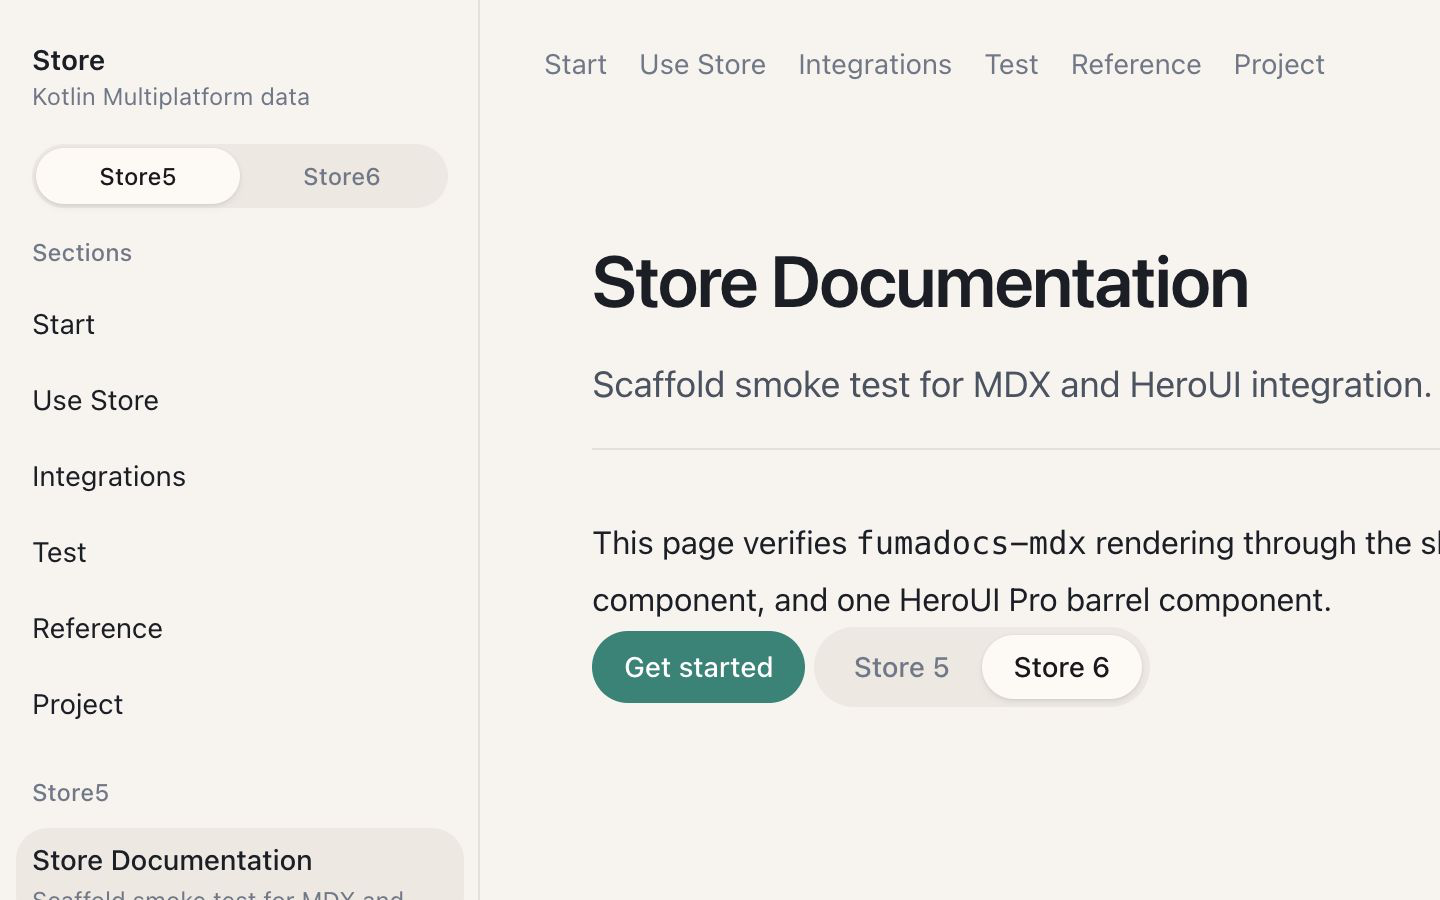
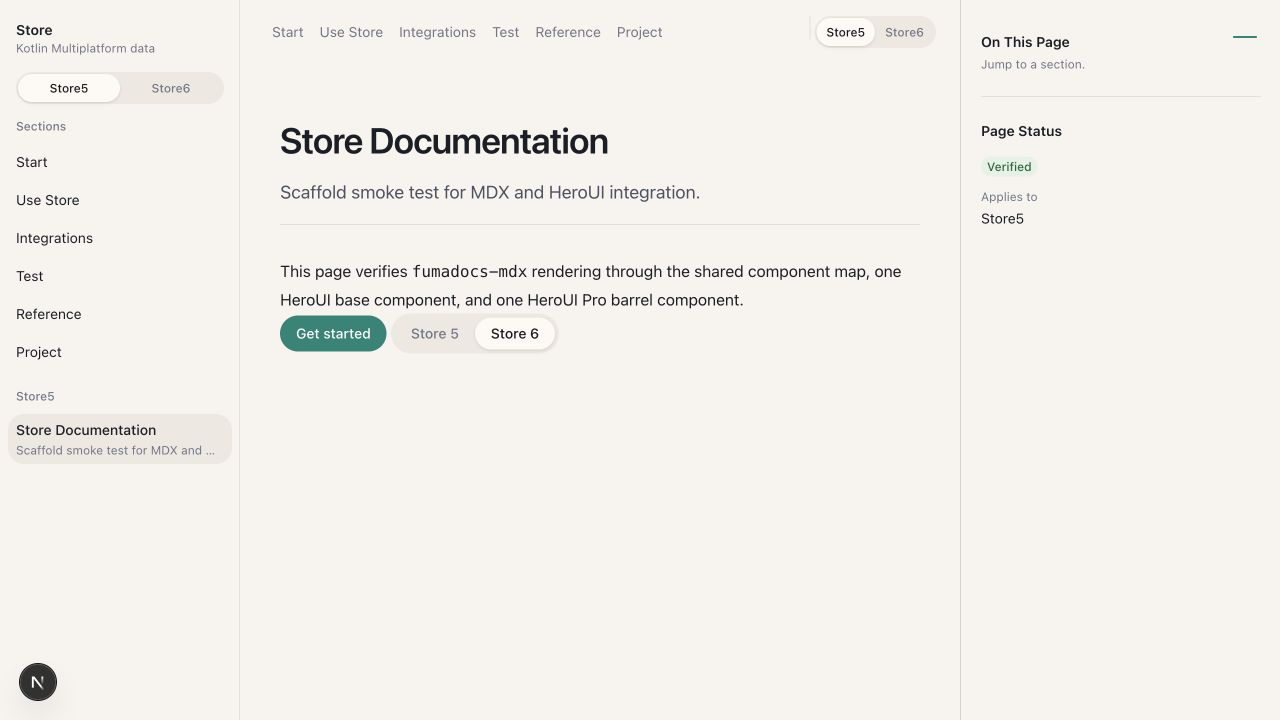
docs: correct shell visual evidence

diff --git a/evidence/T2.md b/evidence/T2.md
@@ -292,21 +292,28 @@ loaded `/docs` through the in-app Browser.
   or error entries after the interaction.
 - The final desktop pass also produced zero Browser warnings or errors.
 
-The Browser returned an 83,704-byte JPEG/JFIF capture despite the PNG evidence
+The explicit `1440×900` Browser viewport produced a cropped image even though
+the DOM measurements above covered the full layout. The orchestrator therefore
+reset the viewport override and browser zoom, then recaptured the exact page at
+the Browser's native `1280×720` desktop viewport. That recapture reported
+`devicePixelRatio=2`, `visualViewport.scale=1`, no horizontal overflow, and the
+full measured columns: `240` px sidebar, `720` px main, and `320` px right rail.
+
+The Browser returned a 46,401-byte JPEG/JFIF capture despite the PNG evidence
 contract. The orchestrator converted those bytes with `sips -s format png` and
 verified the result before copying it to
-`evidence/screens/T2-docs-shell.png`. The exact-head recapture after the mobile
-dialog correction was byte-identical to the provisional capture.
+`evidence/screens/T2-docs-shell.png`.
 
 | Artifact | Dimensions | Bytes | SHA-256 |
 | --- | ---: | ---: | --- |
[2 lines of base64/hex data omitted]
 
-The screenshot shows the paper ground, six-label top navigation, Store5/Store6
-switcher, Fumadocs-derived side tree, page content, and right-rail allocation
-without nested-card framing. Because the required Figma component artifacts
-remain unavailable, visual comparison remains `COMP-UNVERIFIED`; this is a
-self-check, not a claim of pixel-level Figma fidelity.
+The native-viewport screenshot visibly shows the paper ground, six-label top
+navigation, Store5/Store6 switcher, Fumadocs-derived side tree, complete main
+paragraph, and right-rail TOC and page-status surfaces without nested-card
+framing. Because the required Figma component artifacts remain unavailable,
+visual comparison remains `COMP-UNVERIFIED`; this is a self-check, not a claim
+of pixel-level Figma fidelity.
 
 ## Documentation review passes
 
